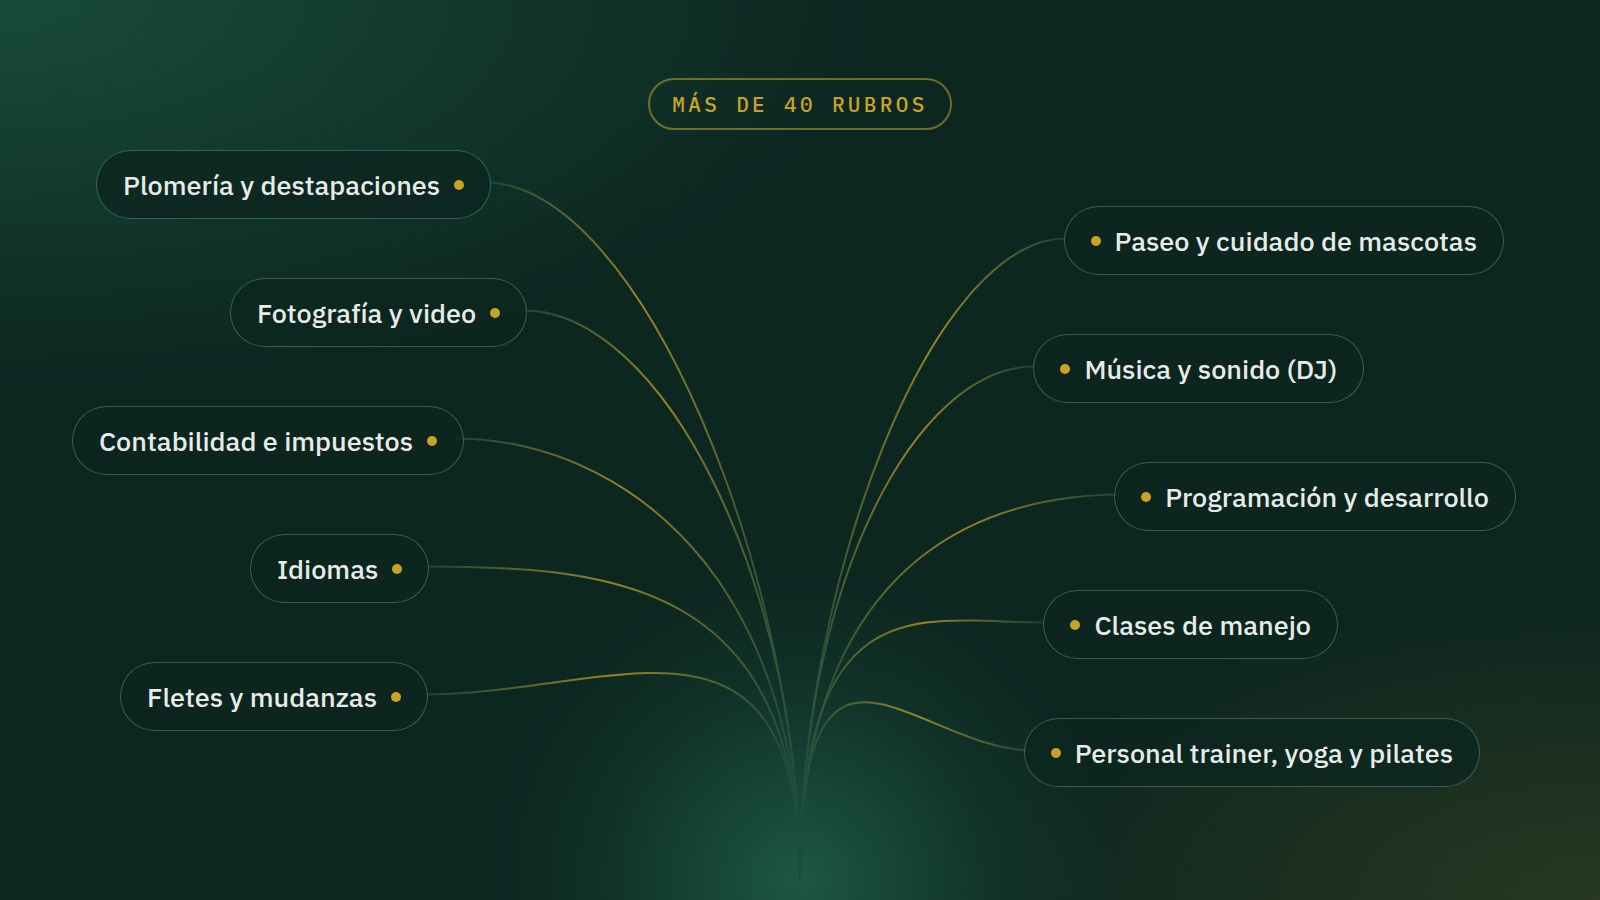
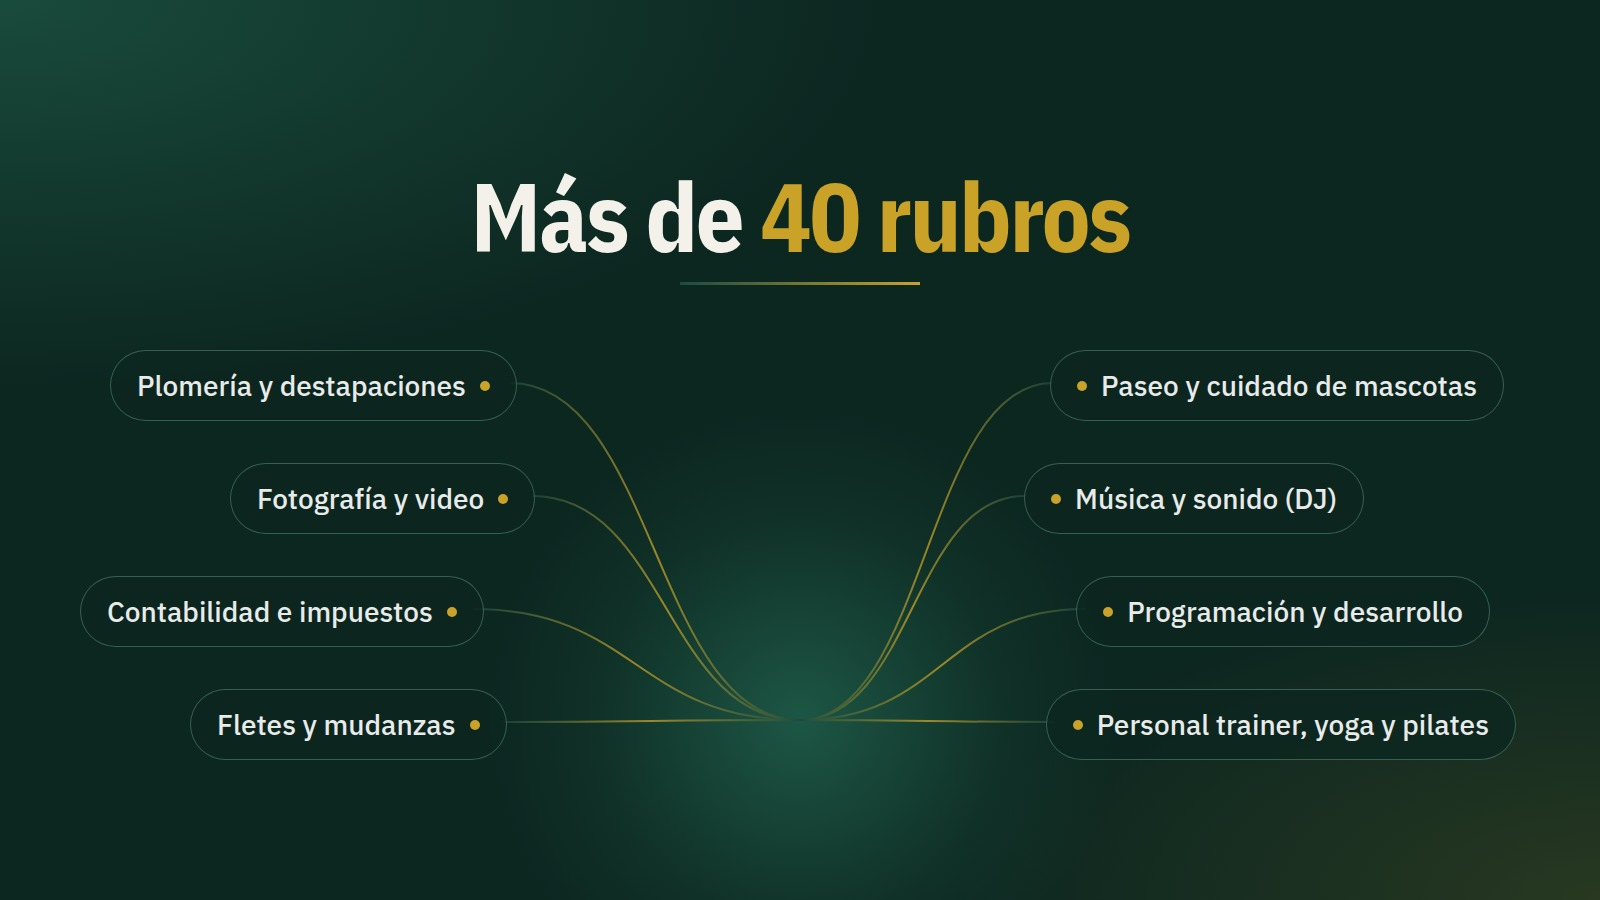
Portada de WhatsApp: "Más de 40 rubros" grande y fuera del recorte
WhatsApp recorta arriba y abajo y tapaba el sello. Ahora el título va
grande en la franja que se ve, lejos de los íconos, con 8 rubros a los
costados unidos a la foto de perfil.

Claude-Session: https://claude.ai/code/session_01QYJkG6xcivQMJL8kfTpBMv

diff --git a/tools/piezas-redes/piezas.html b/tools/piezas-redes/piezas.html
@@ -32,19 +32,22 @@ em{font-style:normal;color:var(--laton)}
 #portada h1{font-size:84px;line-height:1.0}
 #portada p{font-size:30px;color:var(--gris-3);margin-top:22px}
 
-/* 8 · portada whatsapp business 1600x900 (16:9): el centro de abajo queda
-   libre para la foto de perfil, que WhatsApp pone encima; arriba a la derecha
-   van los íconos del perfil. Los rubros se conectan con hilos a ese centro y
-   el sello va arriba al medio, donde no lo tapa nada. */
+/* 8 · portada whatsapp business 1600x900. WhatsApp muestra más o menos de
+   y=100 a y=800 (recorta arriba y abajo, y arriba tapa con la barra y los
+   íconos) y monta la foto de perfil abajo al medio (centro ~800,720). Por eso:
+   el título grande va en la franja de arriba que sí se ve, los rubros a los
+   costados y los hilos terminan detrás de la foto. */
 #portada-wa{width:1600px;height:900px}
-#portada-wa .hub{position:absolute;left:800px;top:880px;width:640px;height:640px;margin:-320px 0 0 -320px;border-radius:50%;
+#portada-wa .hub{position:absolute;left:800px;top:720px;width:640px;height:640px;margin:-320px 0 0 -320px;border-radius:50%;
   background:radial-gradient(circle, rgba(43,126,98,.55), rgba(43,126,98,.12) 45%, transparent 70%);z-index:1}
 #portada-wa svg.hilos{position:absolute;inset:0;z-index:1}
+#portada-wa .titulo{position:absolute;z-index:2;left:0;right:0;top:168px;text-align:center}
+#portada-wa .titulo h1{font-size:96px;line-height:1;color:#F4F1EA}
+#portada-wa .titulo .hilo{width:240px;height:3px;margin:18px auto 0}
 #portada-wa .chip{position:absolute;z-index:2;display:flex;align-items:center;gap:14px;padding:16px 26px;border-radius:99px;
-  background:rgba(12,38,32,.82);border:1.5px solid rgba(143,217,188,.32);color:#E8EBEA;font-size:27px;font-weight:500;white-space:nowrap}
+  background:rgba(12,38,32,.82);border:1.5px solid rgba(143,217,188,.32);color:#E8EBEA;font-size:28px;font-weight:500;white-space:nowrap}
 #portada-wa .chip i{width:10px;height:10px;border-radius:50%;background:var(--laton);flex:none}
 #portada-wa .izq i{order:2}
-#portada-wa .pie{position:absolute;z-index:2;display:flex;align-items:center}
 
 /* posts 1080x1350 */
 .post{width:1080px;height:1350px}
@@ -173,31 +176,28 @@ em{font-style:normal;color:var(--laton)}
 <div class="pieza oscura" id="portada-wa"><div class="cont">
   <div class="hub"></div>
   <svg class="hilos" width="1600" height="900"><defs><linearGradient id="hwa" x1="0" x2="1"><stop offset="0" stop-color="#1B4B40"/><stop offset=".5" stop-color="#C9A227"/><stop offset="1" stop-color="#1B4B40"/></linearGradient></defs></svg>
-  <span class="chip izq" style="left:96px;top:150px">Plomería y destapaciones<i></i></span>
-  <span class="chip izq" style="left:230px;top:278px">Fotografía y video<i></i></span>
-  <span class="chip izq" style="left:72px;top:406px">Contabilidad e impuestos<i></i></span>
-  <span class="chip izq" style="left:250px;top:534px">Idiomas<i></i></span>
-  <span class="chip izq" style="left:120px;top:662px">Fletes y mudanzas<i></i></span>
-  <span class="chip der" style="right:96px;top:206px"><i></i>Paseo y cuidado de mascotas</span>
-  <span class="chip der" style="right:236px;top:334px"><i></i>Música y sonido (DJ)</span>
-  <span class="chip der" style="right:84px;top:462px"><i></i>Programación y desarrollo</span>
-  <span class="chip der" style="right:262px;top:590px"><i></i>Clases de manejo</span>
-  <span class="chip der" style="right:120px;top:718px"><i></i>Personal trainer, yoga y pilates</span>
-  <div class="pie" style="left:600px;right:600px;justify-content:center;top:78px;bottom:auto"><span class="sello" style="font-size:21px;padding:10px 22px">Más de 40 rubros</span></div>
+  <div class="titulo"><h1 class="cond">Más de <em>40 rubros</em></h1><div class="hilo"></div></div>
+  <span class="chip izq" style="left:110px;top:350px">Plomería y destapaciones<i></i></span>
+  <span class="chip izq" style="left:230px;top:463px">Fotografía y video<i></i></span>
+  <span class="chip izq" style="left:80px;top:576px">Contabilidad e impuestos<i></i></span>
+  <span class="chip izq" style="left:190px;top:689px">Fletes y mudanzas<i></i></span>
+  <span class="chip der" style="right:96px;top:350px"><i></i>Paseo y cuidado de mascotas</span>
+  <span class="chip der" style="right:236px;top:463px"><i></i>Música y sonido (DJ)</span>
+  <span class="chip der" style="right:110px;top:576px"><i></i>Programación y desarrollo</span>
+  <span class="chip der" style="right:84px;top:689px"><i></i>Personal trainer, yoga y pilates</span>
 </div></div>
 <script>
-// Hilos de cada rubro al centro (donde WhatsApp pone la foto de perfil).
+// Hilos de cada rubro a la foto de perfil (abajo al medio).
 (function(){
   const pz=document.getElementById('portada-wa'), svg=pz.querySelector('svg.hilos'), r=pz.getBoundingClientRect();
-  const hx=800, hy=880; // abajo al medio: ahí cae la foto de perfil, esté más arriba o montada sobre el borde
+  const hx=800, hy=720;
   pz.querySelectorAll('.chip').forEach(c=>{
     const b=c.getBoundingClientRect(), izq=c.classList.contains('izq');
     const x=(izq?b.right-r.left:b.left-r.left), y=b.top-r.top+b.height/2;
-    const p=document.createElementNS('http://www.w3.org/2000/svg','path');
     const mx=(x+hx)/2;
-    p.setAttribute('d',`M${x} ${y} C${mx} ${y} ${hx} ${hy - 300} ${hx} ${hy}`);
-    p.setAttribute('fill','none'); p.setAttribute('stroke','url(#hwa)'); p.setAttribute('stroke-width','2');
-    p.setAttribute('stroke-opacity','.75');
+    const p=document.createElementNS('http://www.w3.org/2000/svg','path');
+    p.setAttribute('d',`M${x} ${y} C${mx} ${y} ${mx} ${hy} ${hx} ${hy}`);
+    p.setAttribute('fill','none'); p.setAttribute('stroke','url(#hwa)'); p.setAttribute('stroke-width','2'); p.setAttribute('stroke-opacity','.75');
     svg.appendChild(p);
   });
 })();

diff --git a/tools/piezas-redes/README.md b/tools/piezas-redes/README.md
@@ -12,7 +12,7 @@ Con la misma identidad que la app: verde bosque, latón e IBM Plex.
 | `05-post-proveedores.png` | Para sumar proveedores | 1080×1350 |
 | `06-cartel-proveedores-A4` | Cartel para ferreterías y corralones (PDF para imprimir, PNG a 300 dpi) | A4 |
 | `07-cartel-vecinos-A4` | Cartel para comercios del barrio | A4 |
-| `08-portada-whatsapp.png` / `.jpg` | Portada del perfil de WhatsApp Business: rubros de varias categorías unidos por hilos al centro de abajo, donde WhatsApp pone la foto de perfil | 1600×900 |
+| `08-portada-whatsapp.png` / `.jpg` | Portada del perfil de WhatsApp Business: "Más de 40 rubros" grande arriba y rubros de varias categorías unidos por hilos a la foto de perfil (WhatsApp recorta arriba y abajo y monta la foto abajo al medio) | 1600×900 |
 
 Los QR de los carteles llevan a `trattoapp.com.ar` con
 `utm_source=cartel&utm_medium=qr&utm_campaign=proveedores|vecinos`, así Vercel
